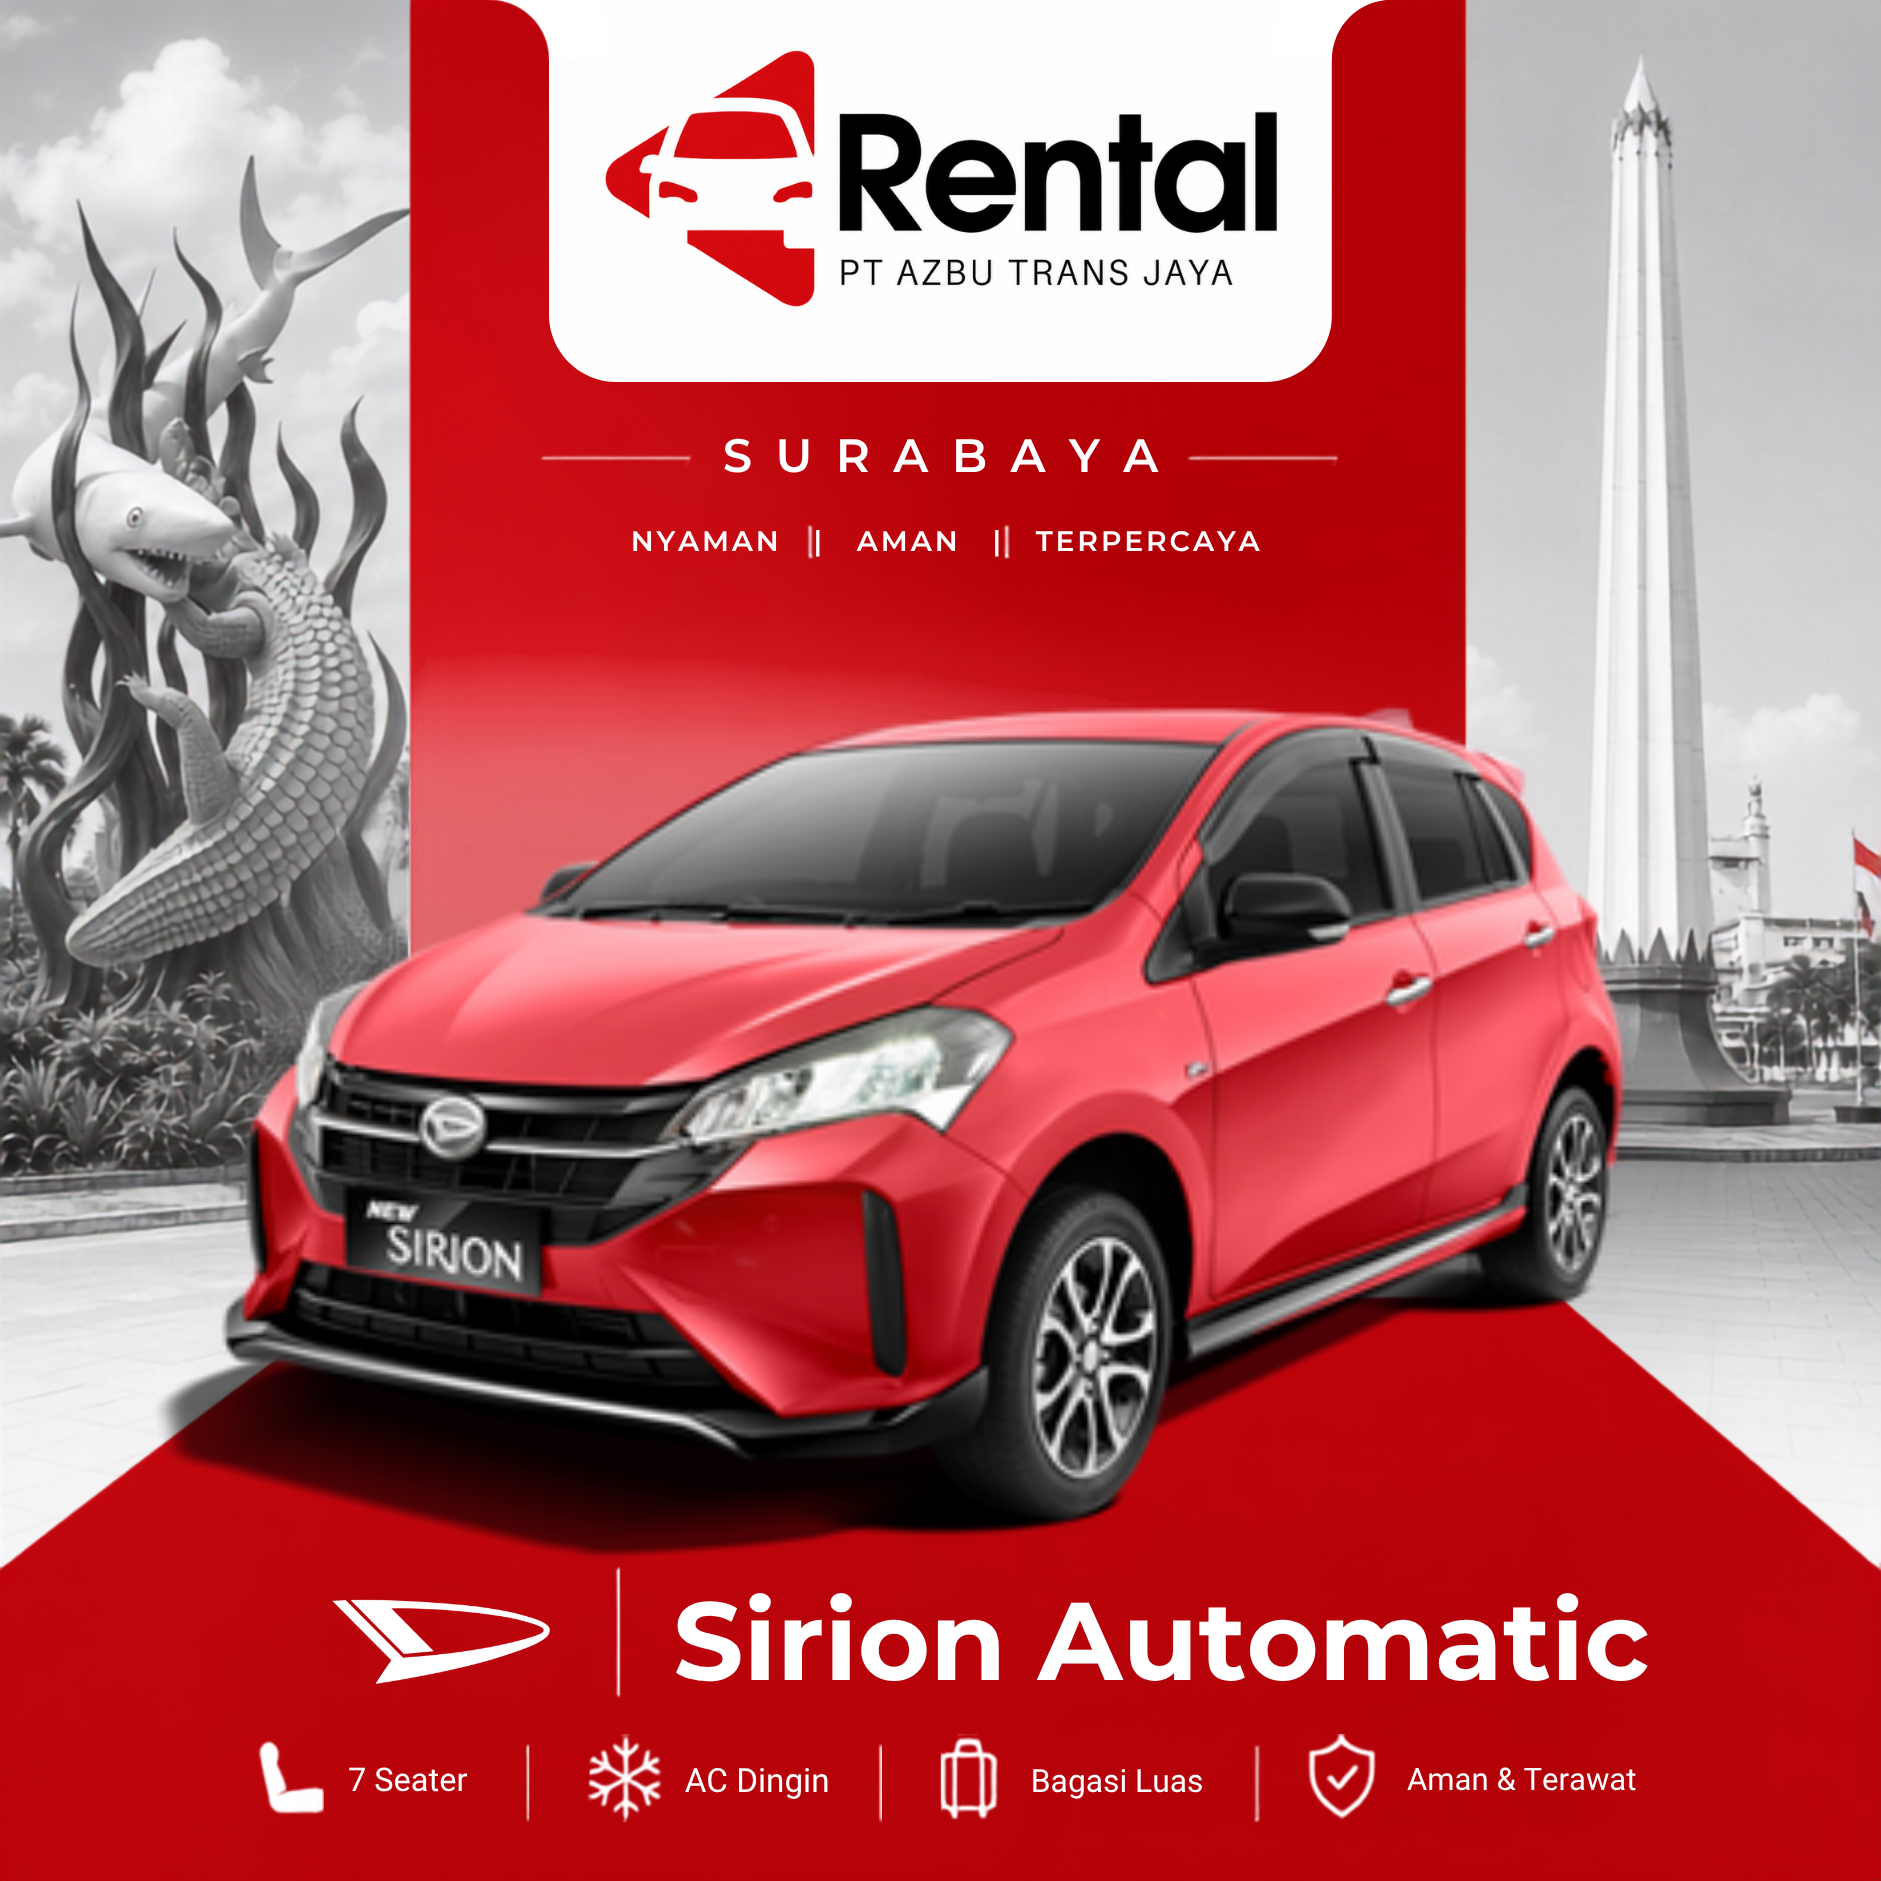
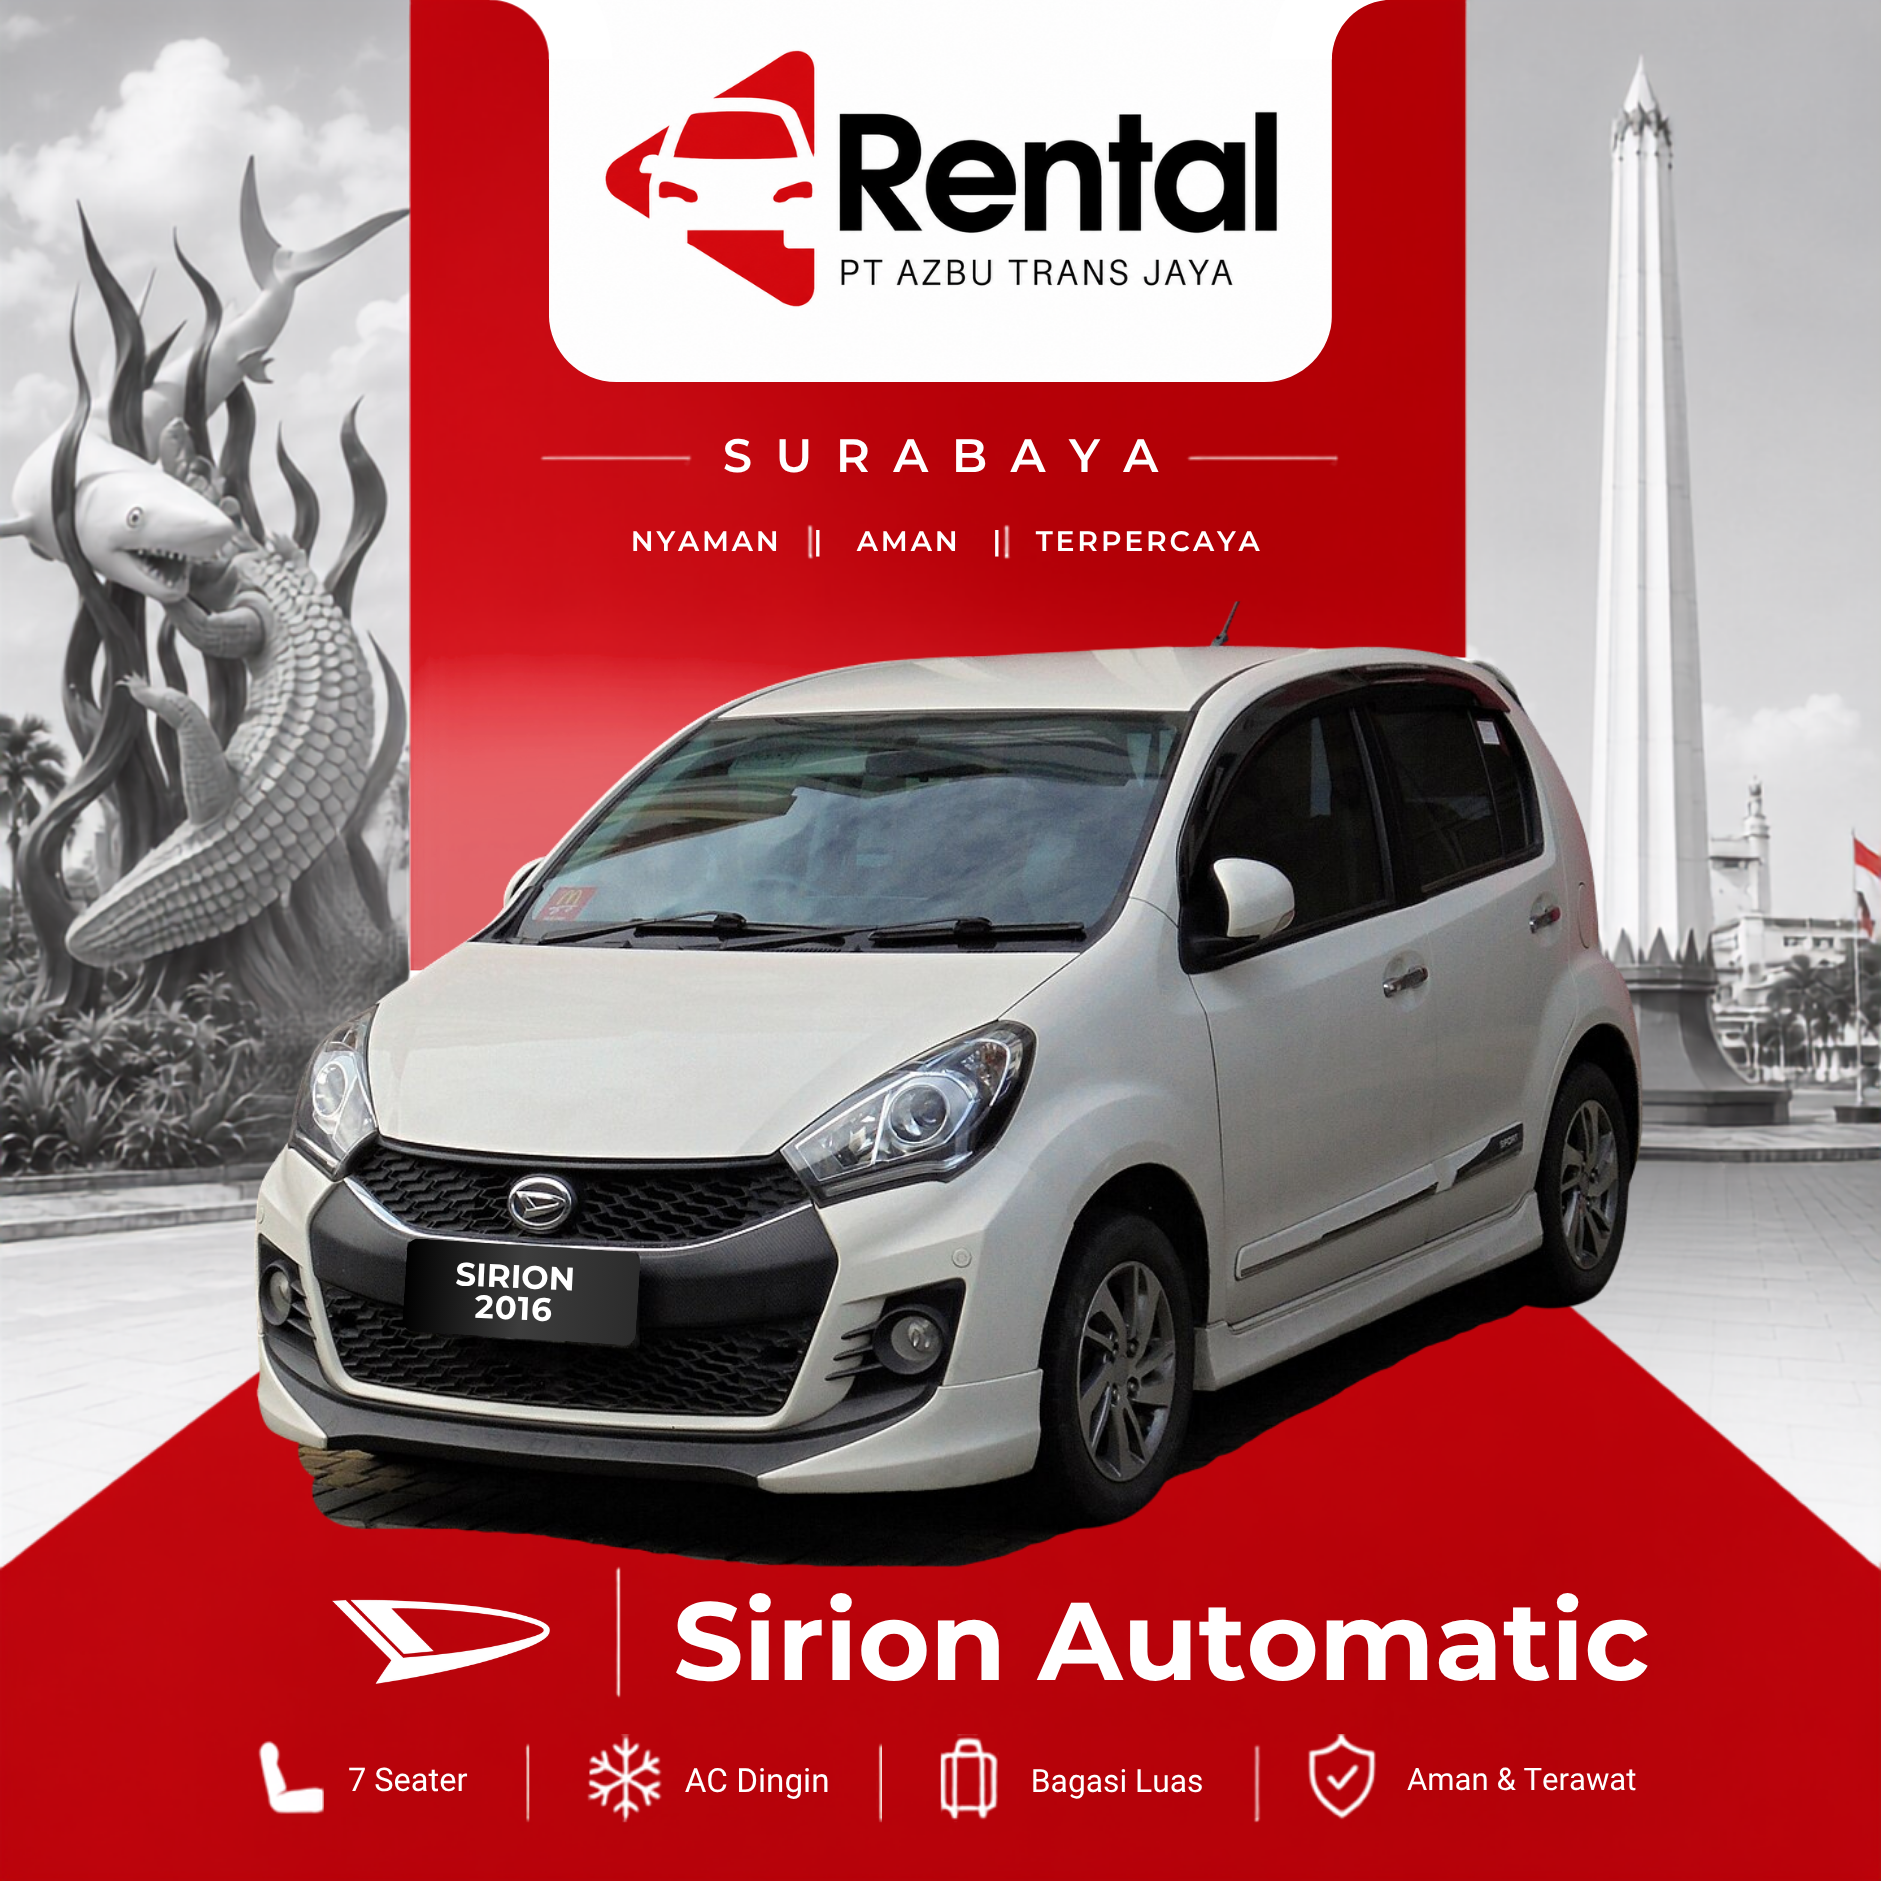
fix(fleet): update Sigra Tipe R and Sirion 2016 photos and fleet data

Changed region(s): [[0.0617, 0.3392, 0.8942, 0.8325]]

diff --git a/lib/data.ts b/lib/data.ts
@@ -56,12 +56,12 @@ export type FleetVehicle = {
 };
 
 export const fleet: FleetVehicle[] = [
-  { name: "Daihatsu Sigra AT", category: "City Car", image: "/images/sigra.png", transmission: "Automatic", seats: "5–7 Seat", price: 325000 },
+  { name: "Daihatsu Sigra R AT", category: "City Car", image: "/images/sigra.png", transmission: "Automatic", seats: "5–7 Seat", price: 325000 },
   { name: "Suzuki XL7 AT", category: "MPV", image: "/images/xl7.png", transmission: "Automatic", seats: "7 Seat", price: 400000 },
   { name: "Daihatsu Xenia 2018 Manual", category: "MPV", image: "/images/xenia.png", transmission: "Manual", seats: "7 Seat", price: 275000 },
   { name: "Daihatsu Ayla AT", category: "City Car", image: "/images/ayla.png", transmission: "Automatic", seats: "5 Seat", price: 275000 },
   { name: "Avanza Manual", category: "MPV", image: "/images/avanza.png", transmission: "Manual", seats: "7 Seat", price: 300000 },
-  { name: "Sirion Automatic", category: "City Car", image: "/images/sirion.png", transmission: "Automatic", seats: "5 Seat", price: 300000 },
+  { name: "Daihatsu Sirion 2016 AT", category: "City Car", image: "/images/sirion.png", transmission: "Automatic", seats: "5 Seat", price: 300000 },
   { name: "Innova Reborn Automatic", category: "Premium", image: "/images/innova.png", transmission: "Automatic", seats: "7 Seat", price: 600000 },
   { name: "Hiace", category: "Minibus", image: "/images/hiace.png", transmission: "Manual", seats: "Rombongan", price: 1000000 },
 ];
